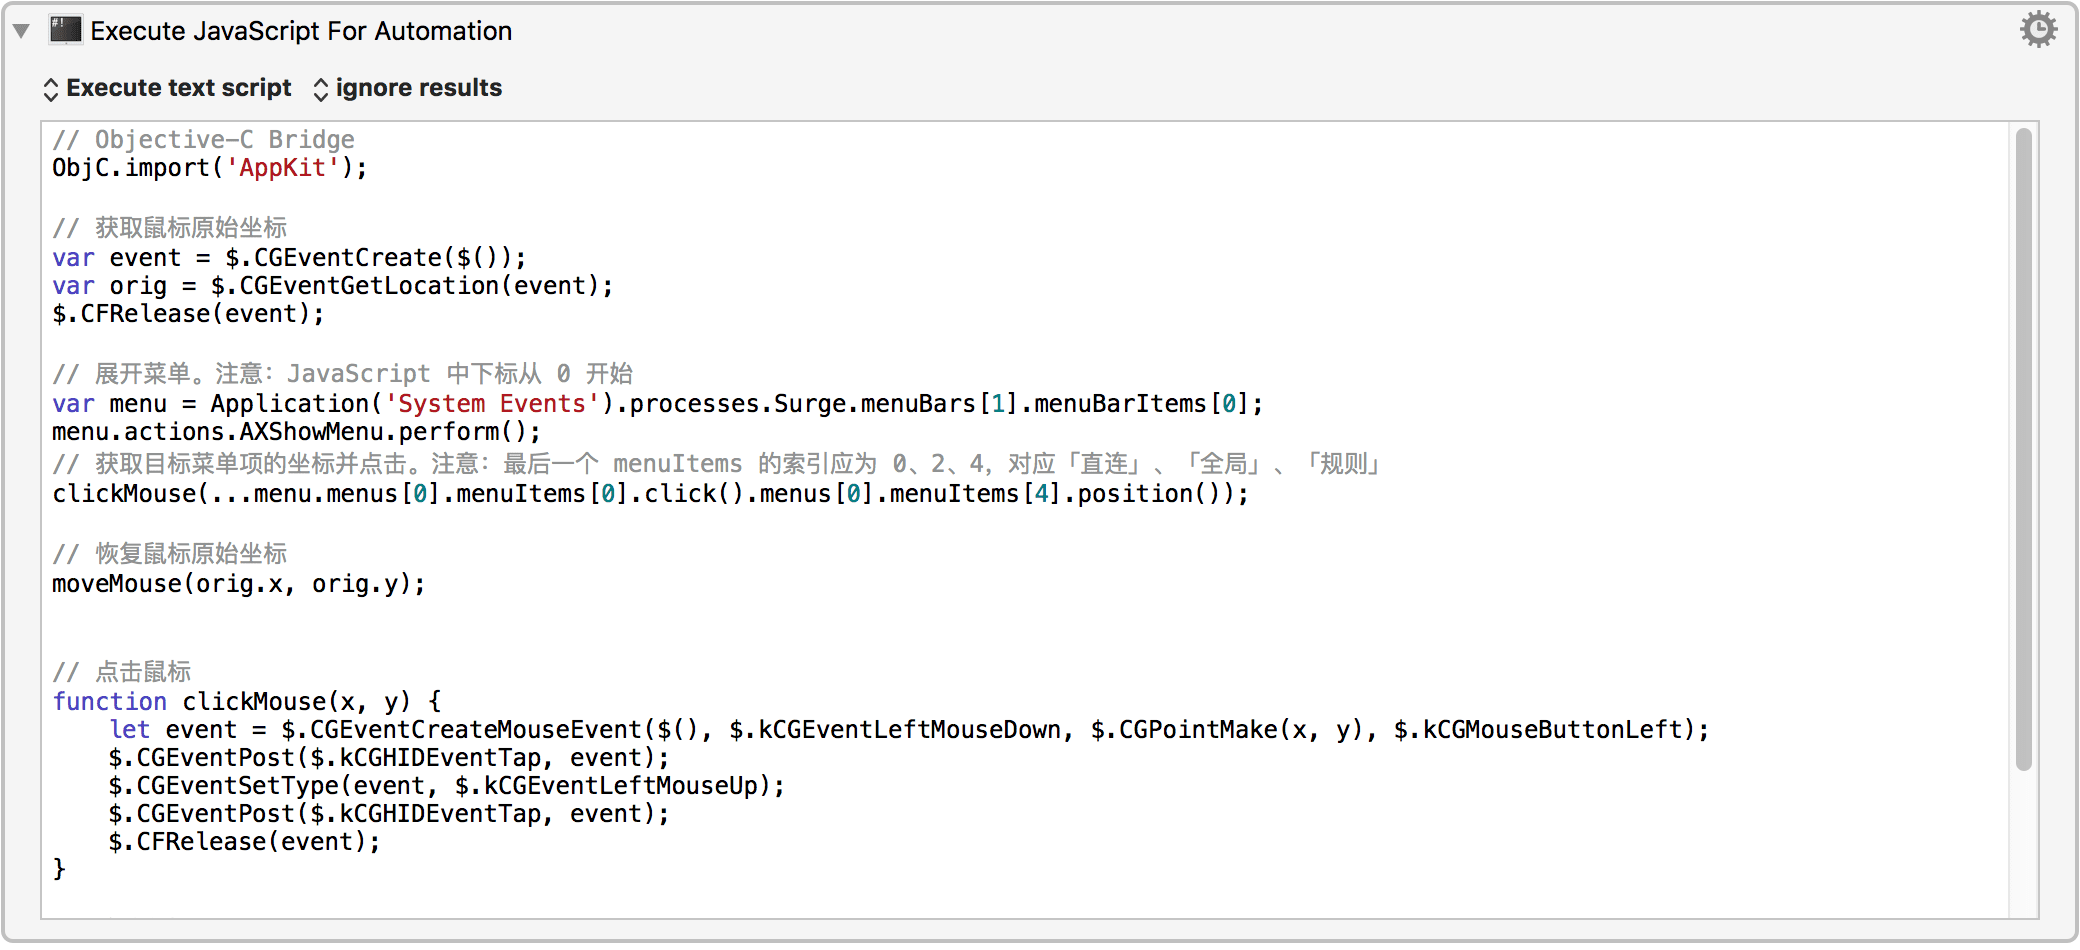
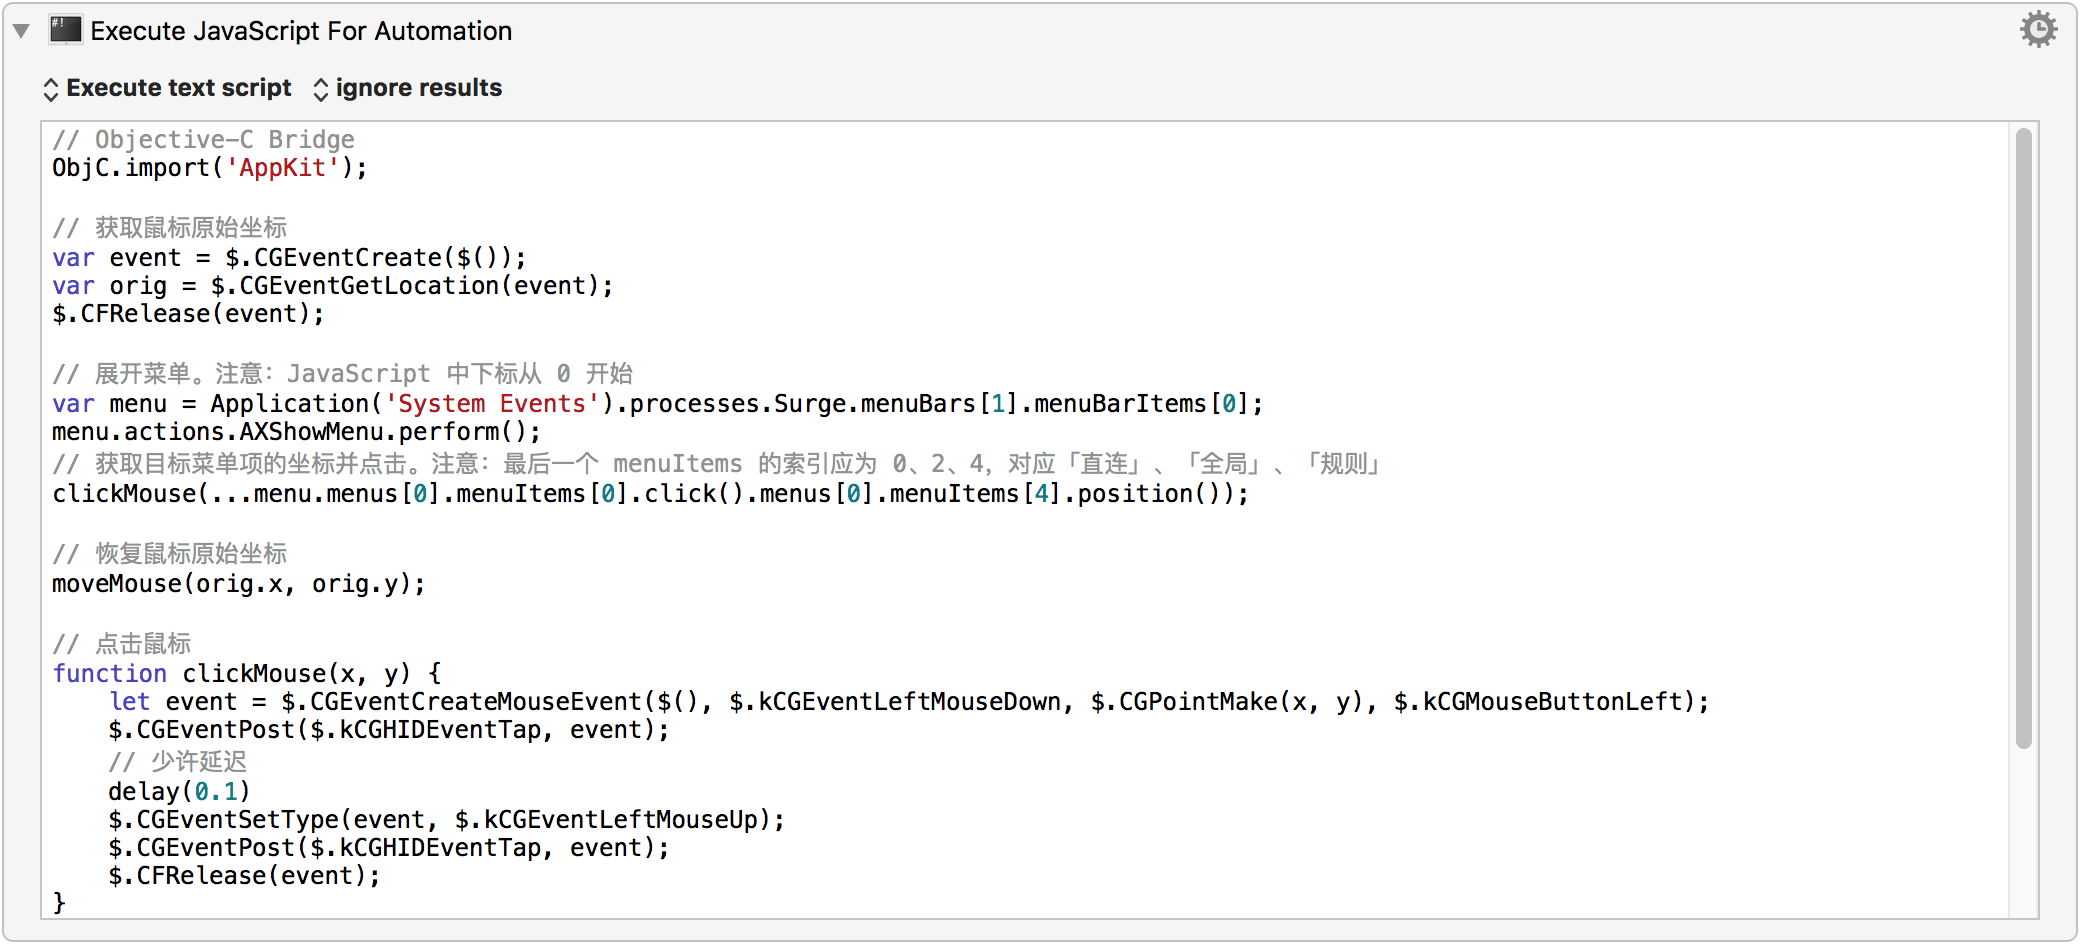
Minor tweak

Changed region(s): [[0.0, 0.6716, 0.8125, 0.9463], [0.9688, 0.7937, 1.0, 0.8242]]

diff --git a/README.md b/README.md
@@ -112,11 +112,10 @@ moveMouse(orig.x, orig.y);
 
 // 点击鼠标
 function clickMouse(x, y) {
-	moveMouse(x,y);
-	// 少许延迟
-	delay(0.1);
 	let event = $.CGEventCreateMouseEvent($(), $.kCGEventLeftMouseDown, $.CGPointMake(x, y), $.kCGMouseButtonLeft);
 	$.CGEventPost($.kCGHIDEventTap, event);
+	// 少许延迟
+	delay(0.1)
 	$.CGEventSetType(event, $.kCGEventLeftMouseUp);
 	$.CGEventPost($.kCGHIDEventTap, event);
 	$.CFRelease(event);
@@ -133,4 +132,3 @@ function moveMouse(x, y) {
 JXA 在 Shell 中的调用方式是 `osascript -l JavaScript xxx.js`；在 Keyboard Maestro 中是：
 
 ![JXA 联合 ObjC 框架](https://raw.githubusercontent.com/jayqizone/Surge-AppleScript/master/images/jxa.png)
-
